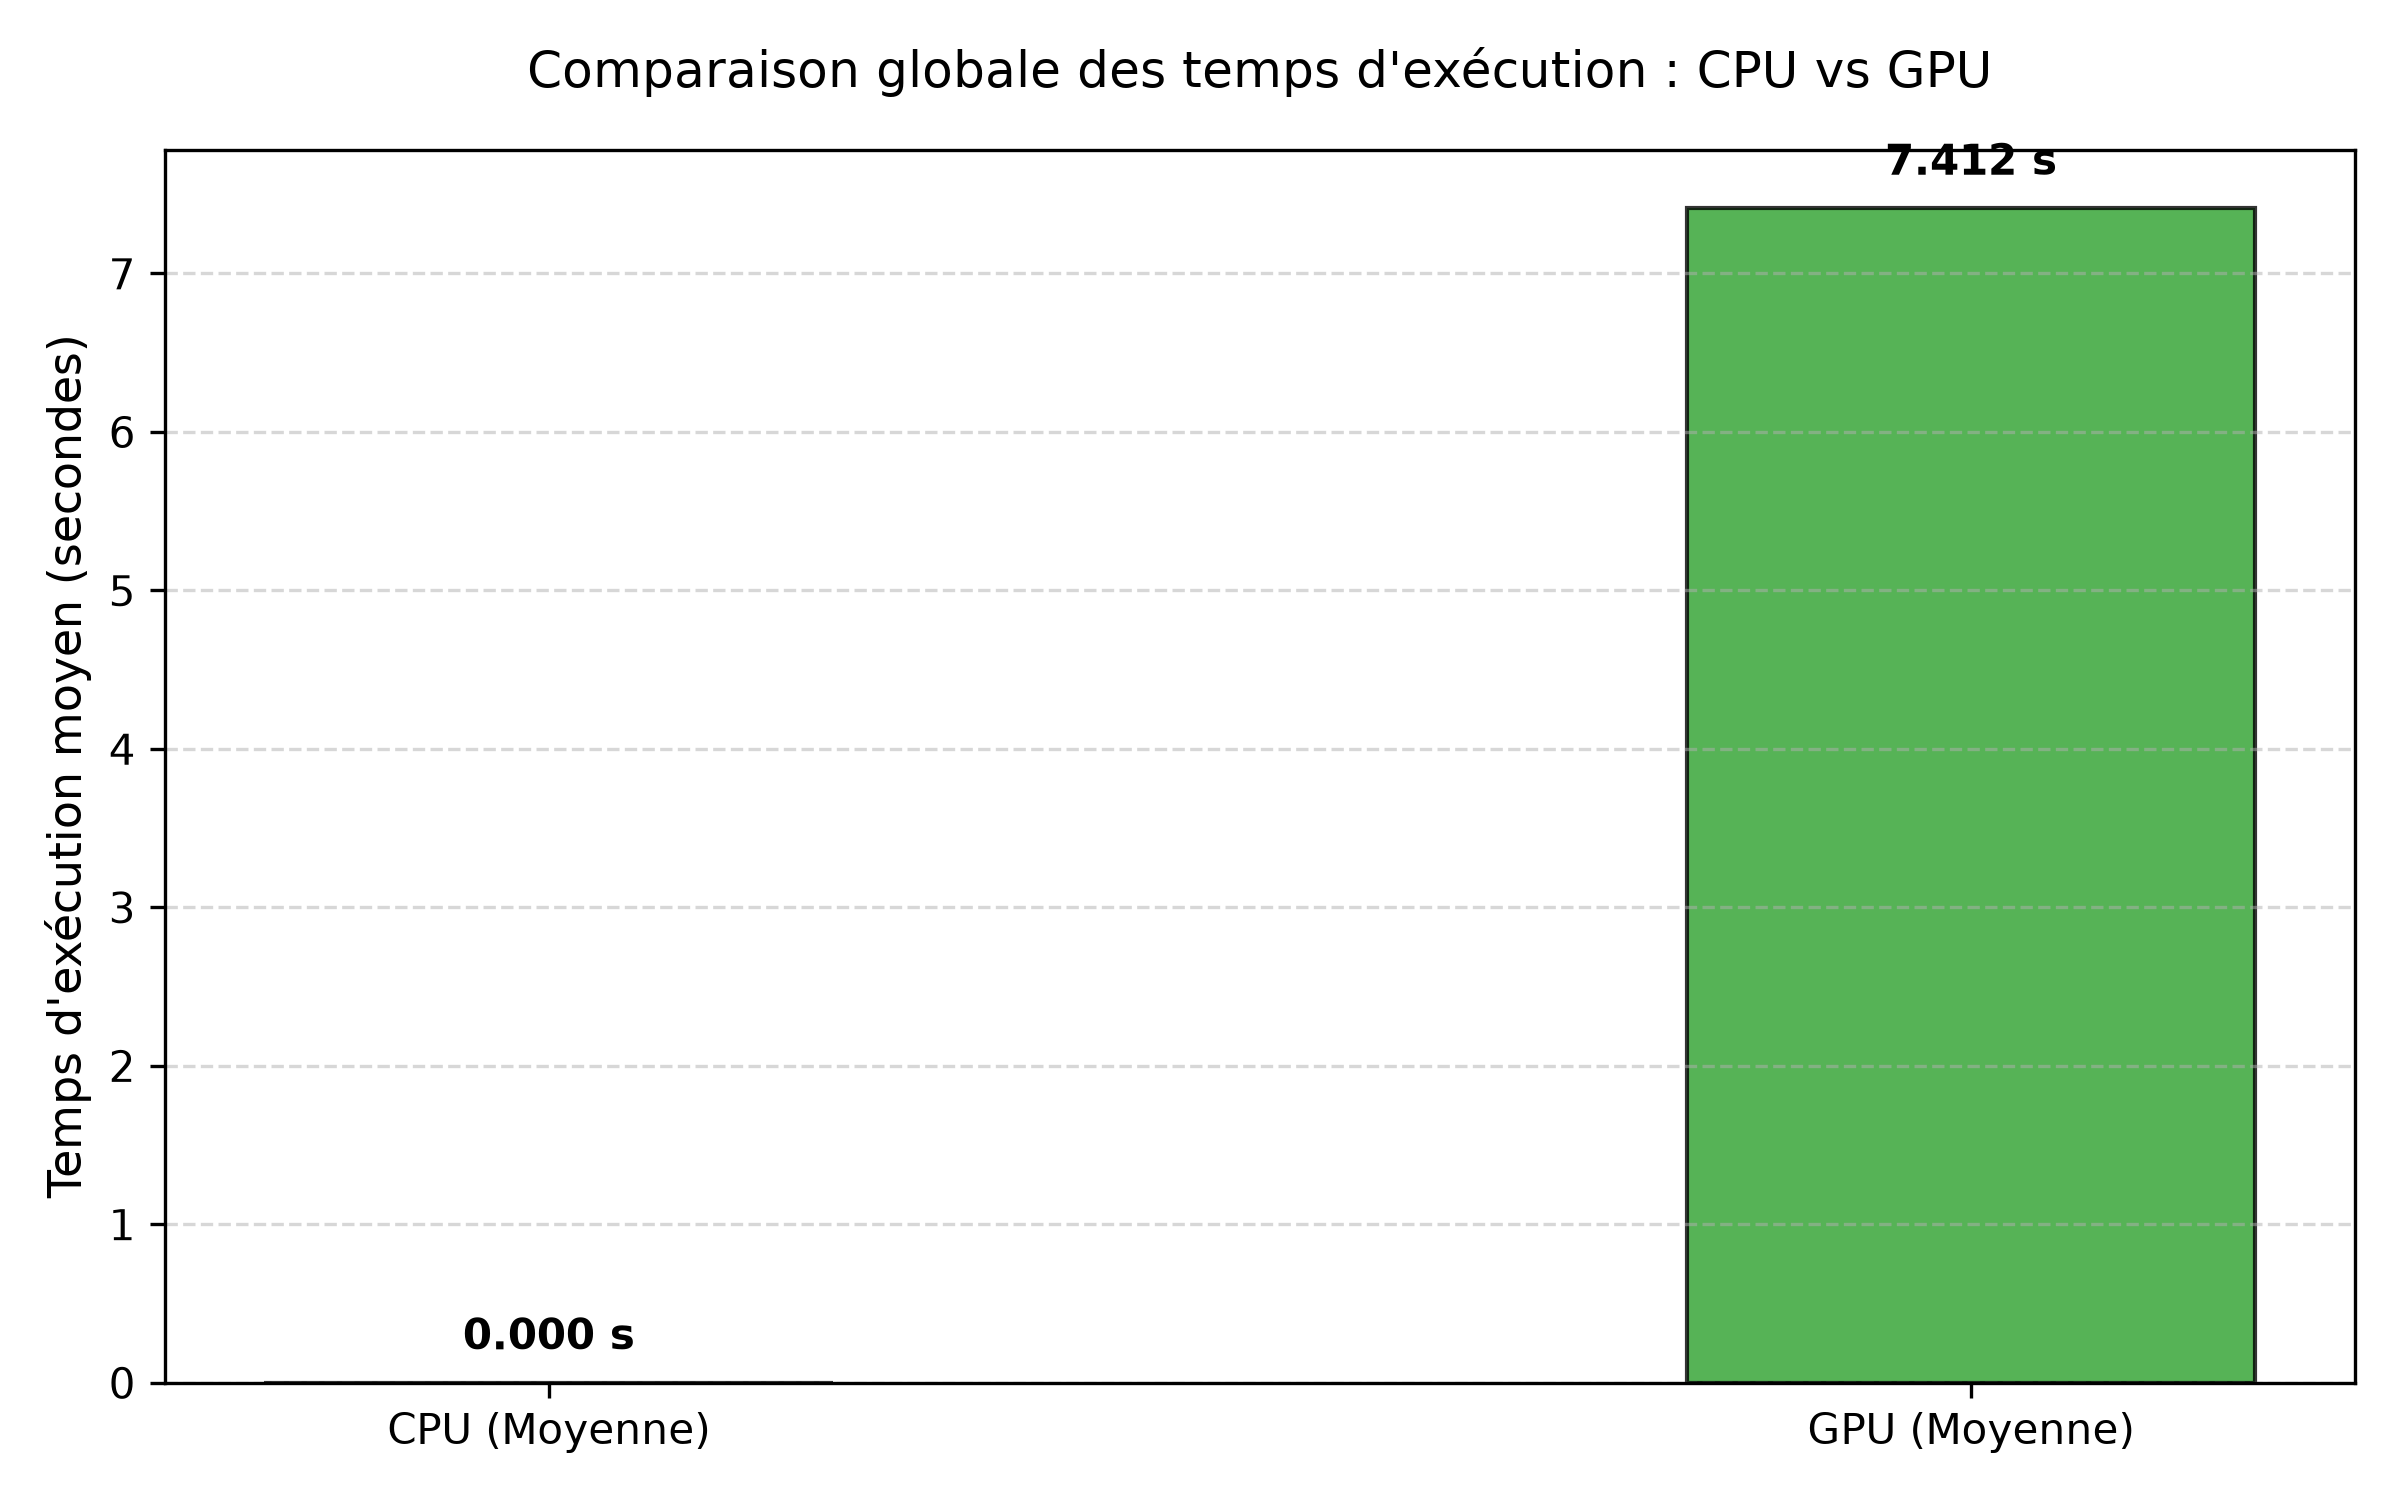
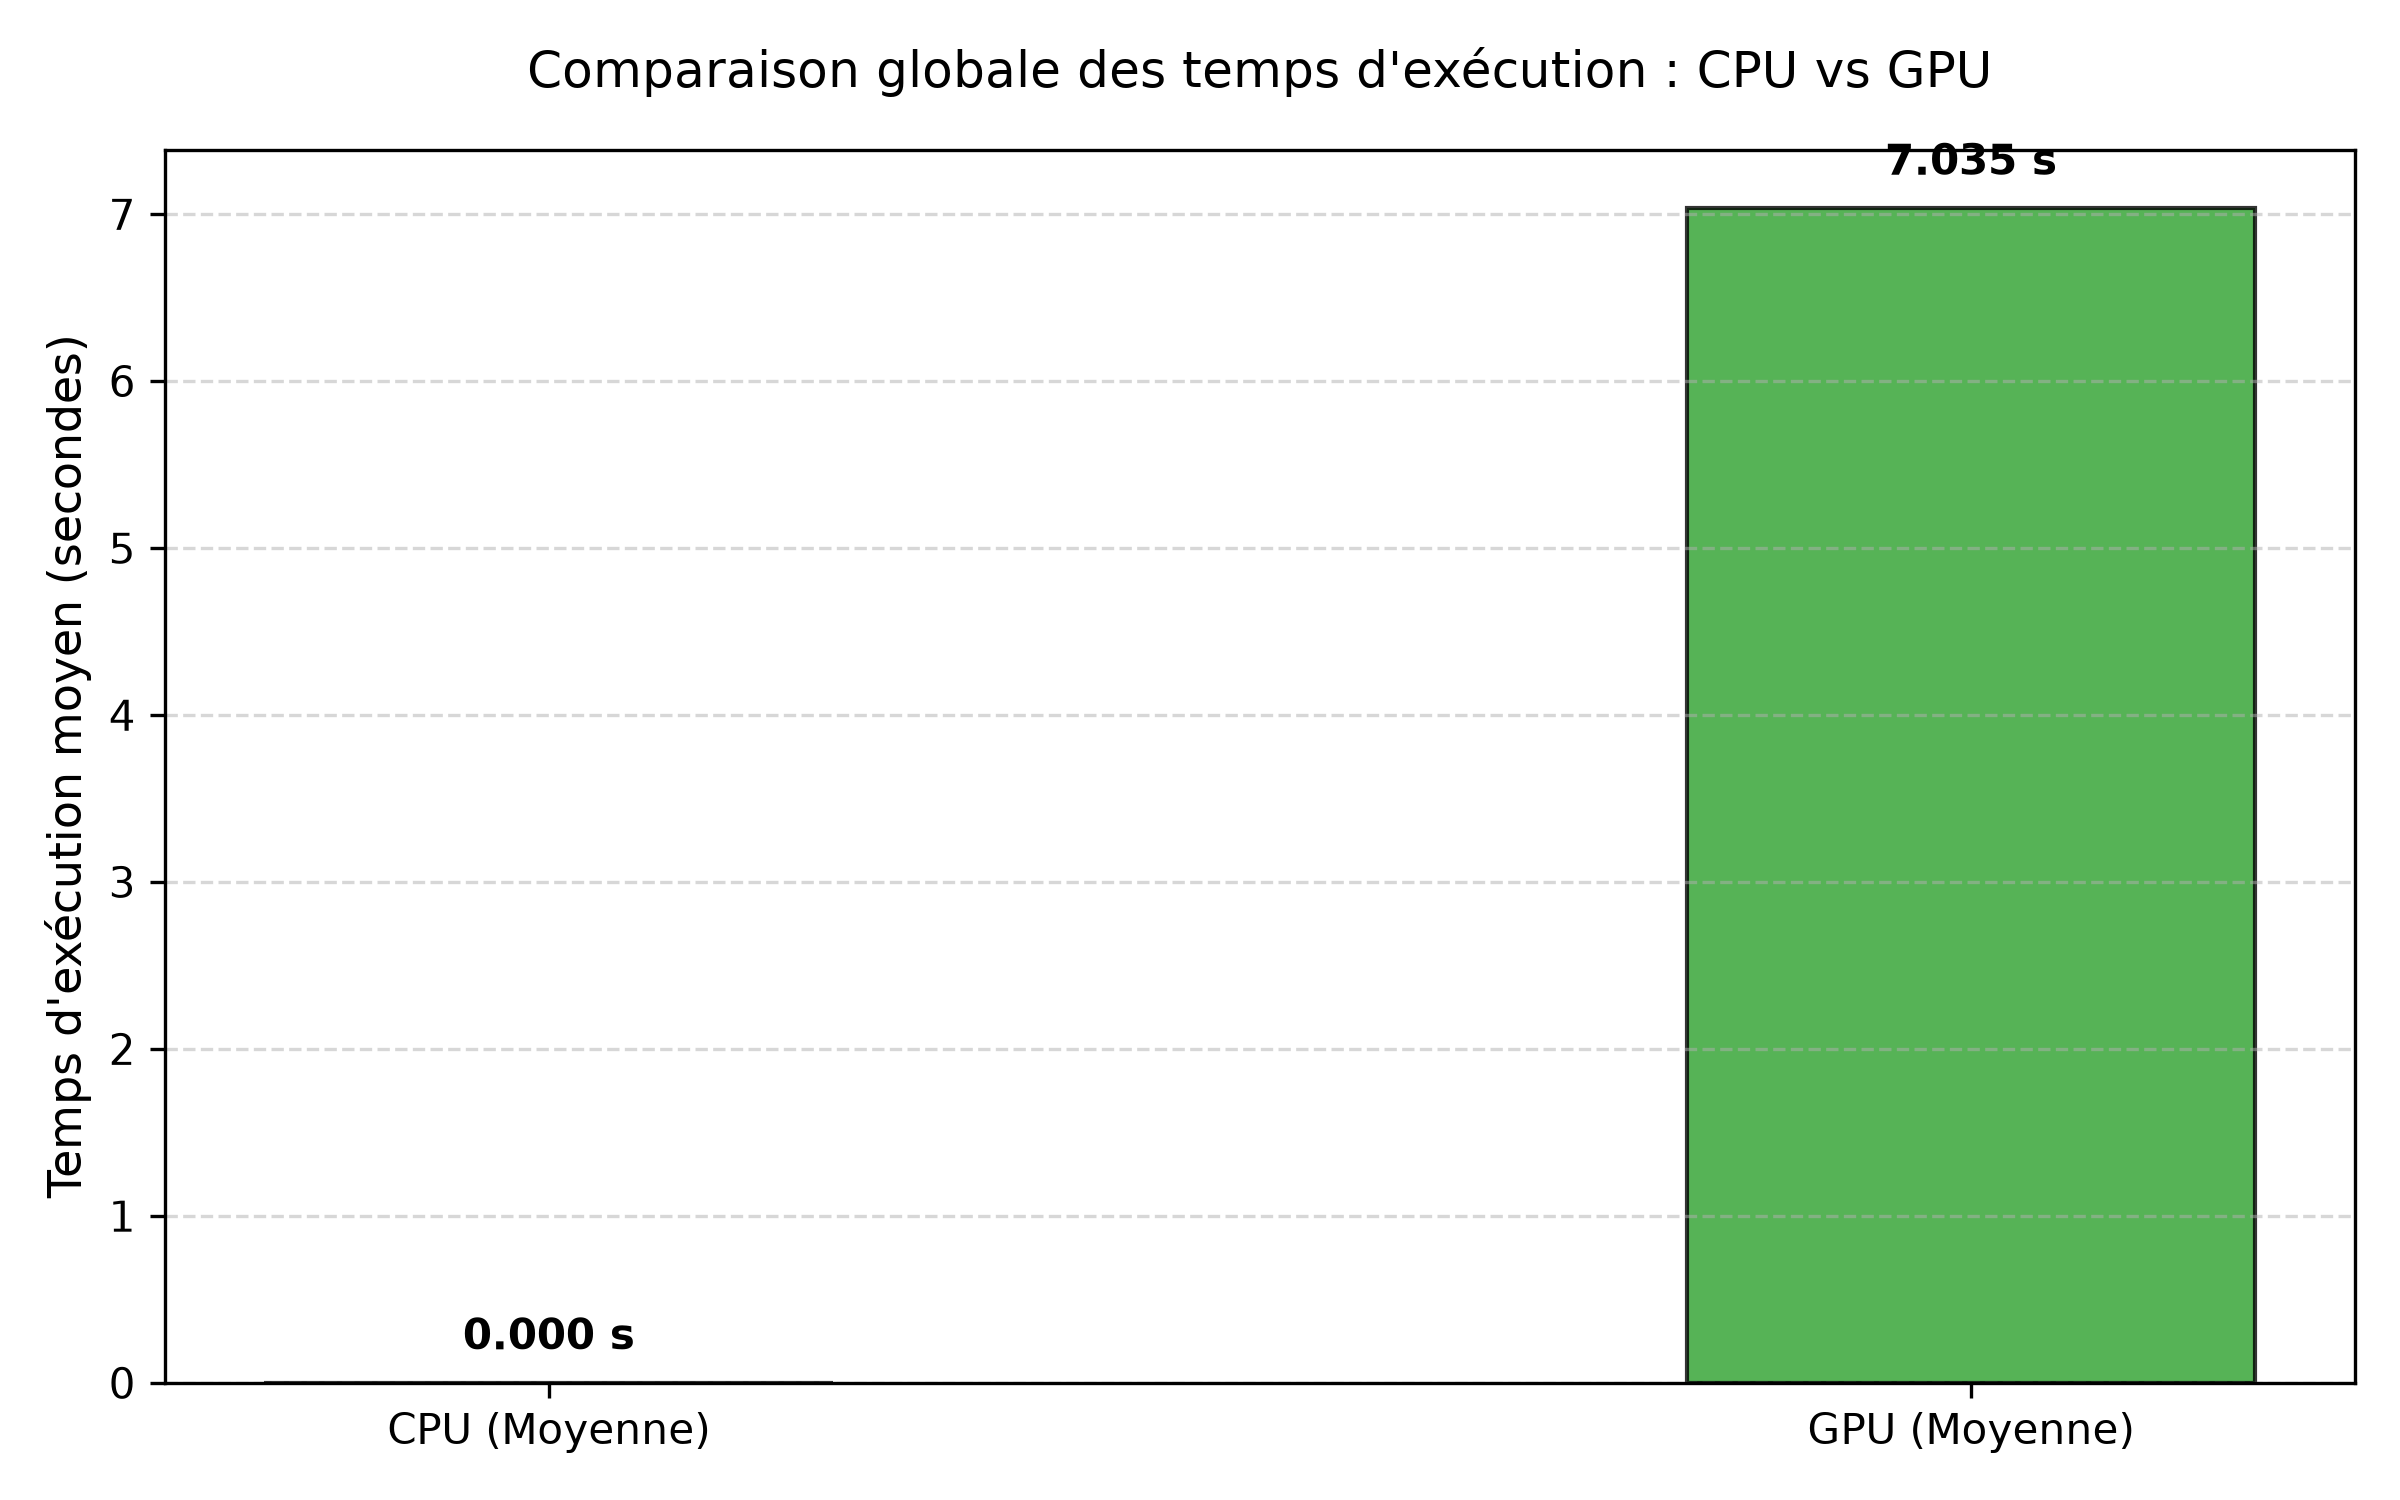
removed unused variables

diff --git a/src/umep_solweig/SOLWEIGpython/COMFA/CNR_Kinabs_meas_old.py b/src/umep_solweig/SOLWEIGpython/COMFA/CNR_Kinabs_meas_old.py
@@ -18,8 +18,8 @@ def CNR_Kinabs_meas(
     *args,
     **kwargs
 ):
-    varargin = CNR_Kinabs_meas.varargin
-    nargin = CNR_Kinabs_meas.nargin
+    CNR_Kinabs_meas.varargin
+    CNR_Kinabs_meas.nargin
 
     # VERTICAL CYLINDER MODEL USING THE PERPENDICULAR DIRECT IRRADIANCE AND
     # DIFFUSE BEAMS SEPARATELY
@@ -50,7 +50,7 @@ def CNR_Kinabs_meas(
     Kd_abs = multiply(multiply(multiply((1 - alpha), Kd), 0.5), Acyl)
     # CNR_Kinabs_meas.m:23
 
-    Kin_abs = Kb_abs + Kd_abs
+    Kb_abs + Kd_abs
 
 
 # CNR_Kinabs_meas.m:25

diff --git a/src/umep_solweig/SOLWEIGpython/COMFA/CNR_Kup.py b/src/umep_solweig/SOLWEIGpython/COMFA/CNR_Kup.py
@@ -6,8 +6,8 @@ from libsmop import *
 
 @function
 def CNR_Kup(alpha=None, Kup=None, L=None, D=None, *args, **kwargs):
-    varargin = CNR_Kup.varargin
-    nargin = CNR_Kup.nargin
+    CNR_Kup.varargin
+    CNR_Kup.nargin
 
     # Used to calculate the total reflected solar radiation (K) absorbed by the
     # a cylinder with inputs alpha (cylinder albedo), Kup (measured reflected solar
@@ -17,7 +17,7 @@ def CNR_Kup(alpha=None, Kup=None, L=None, D=None, *args, **kwargs):
     Acyl = CRT_Acyl(L, D)
     # CNR_Kup.m:8
 
-    Kup_abs = multiply(multiply(multiply((1 - alpha), Kup), 0.5), Acyl)
+    multiply(multiply(multiply((1 - alpha), Kup), 0.5), Acyl)
 
 
 # CNR_Kup.m:10

diff --git a/src/umep_solweig/SOLWEIGpython/COMFA/CRT_Acs.py b/src/umep_solweig/SOLWEIGpython/COMFA/CRT_Acs.py
@@ -6,8 +6,8 @@ from libsmop import *
 
 @function
 def CRT_Acs(L=None, D=None, *args, **kwargs):
-    varargin = CRT_Acs.varargin
-    nargin = CRT_Acs.nargin
+    CRT_Acs.varargin
+    CRT_Acs.nargin
 
     # vertical cross sectional area of the cylinder in m
 
@@ -18,7 +18,7 @@ def CRT_Acs(L=None, D=None, *args, **kwargs):
     #
     # Used in Kb_abs = (1-alpha).* (Kb .* sind(zen)).* Acs;
 
-    Acs = multiply(D, L)
+    multiply(D, L)
 
 
 # CRT_Acs.m:13

diff --git a/src/umep_solweig/SOLWEIGpython/COMFA/LinMeas_abs.py b/src/umep_solweig/SOLWEIGpython/COMFA/LinMeas_abs.py
@@ -6,8 +6,8 @@ from libsmop import *
 
 @function
 def LinMeas_abs(L=None, D=None, Lin=None, *args, **kwargs):
-    varargin = LinMeas_abs.varargin
-    nargin = LinMeas_abs.nargin
+    LinMeas_abs.varargin
+    LinMeas_abs.nargin
 
     # Used to Calculate the incoming longwave radiation absorbed by the cylinder with
     # inputs epsilon (emissivity of the cylinder, 0.95), Ta (air temp, degreesC)
@@ -17,7 +17,7 @@ def LinMeas_abs(L=None, D=None, Lin=None, *args, **kwargs):
     # LinMeas_abs.m:7
     Acyl = CRT_Acyl(L, D)
     # LinMeas_abs.m:9
-    LinMeas_abs = multiply(multiply(multiply(epsilon, Lin), 0.5), Acyl)
+    multiply(multiply(multiply(epsilon, Lin), 0.5), Acyl)
 
 
 # LinMeas_abs.m:11

diff --git a/src/umep_solweig/SOLWEIGpython/COMFA/LupMeas_abs.py b/src/umep_solweig/SOLWEIGpython/COMFA/LupMeas_abs.py
@@ -6,8 +6,8 @@ from libsmop import *
 
 @function
 def LupMeas_abs(L=None, D=None, Lup=None, *args, **kwargs):
-    varargin = LupMeas_abs.varargin
-    nargin = LupMeas_abs.nargin
+    LupMeas_abs.varargin
+    LupMeas_abs.nargin
 
     # Used to calculate the estimated outgoing terrestrial longwave absorbed by the
     # cylinder  for use in the Rabs (Estimation) Model with inputs Ta (air temperature),
@@ -19,7 +19,7 @@ def LupMeas_abs(L=None, D=None, Lup=None, *args, **kwargs):
     epsilon = 0.95
     # LupMeas_abs.m:9
 
-    LupMeas_abs = multiply(multiply(multiply(epsilon, Lup), 0.5), Acyl)
+    multiply(multiply(multiply(epsilon, Lup), 0.5), Acyl)
 
 
 # LupMeas_abs.m:11

diff --git a/src/umep_solweig/SOLWEIGpython/COMFA/atm_P.py b/src/umep_solweig/SOLWEIGpython/COMFA/atm_P.py
@@ -6,15 +6,15 @@ from libsmop import *
 
 @function
 def atm_P(A=None, *args, **kwargs):
-    varargin = atm_P.varargin
-    nargin = atm_P.nargin
+    atm_P.varargin
+    atm_P.nargin
 
     # Written by Jenni Vanos, Aug 2009 for use in COMFA CNR to find Rabs.
 
     Po = 101.3
     # atm_P.m:6
 
-    Pa = multiply(Po, exp(-A / 8200))
+    multiply(Po, exp(-A / 8200))
 
 
 # atm_P.m:9

diff --git a/src/umep_solweig/SOLWEIGpython/COMFA/CNRRabs_Total.py b/src/umep_solweig/SOLWEIGpython/COMFA/CNRRabs_Total.py
@@ -20,8 +20,8 @@ def CNRRabs_Total(
     *args,
     **kwargs
 ):
-    varargin = CNRRabs_Total.varargin
-    nargin = CNRRabs_Total.nargin
+    CNRRabs_Total.varargin
+    CNRRabs_Total.nargin
 
     # VERTICAL CYLINDER MODEL
     # Used to calculate the total radiation absorbed by a cylinder, such as the CRT, with inputs

diff --git a/src/umep_solweig/SOLWEIGpython/COMFA/COMFA_BUDGET.py b/src/umep_solweig/SOLWEIGpython/COMFA/COMFA_BUDGET.py
@@ -285,12 +285,12 @@ def COMFA_CONV(Mact, Ta, RH, vw, va, rco, weight, height, age, kid):
     if kid:
         # Body to surface area of kid
         BSA_k = weight**0.5378 * height**0.3964 * 0.0242
-        BMI_k = weight / (height / 100) ** 2
+        weight / (height / 100) ** 2
         # Body-to-surface area of adult (weight = 65 kg and height = 176 cm, according to Cheng & Brown, 2020)
         adult_weight = 65
         adult_height = 176
         BSA_a = adult_weight**0.5378 * adult_height**0.3964 * 0.0242
-        BMI_a = adult_weight / (adult_height / 100) ** 2
+        adult_weight / (adult_height / 100) ** 2
 
         CONV = (1212 * (Tsk - Ta) / (rc + ra)) * (
             (BSA_k / weight) / (BSA_a / adult_weight)

diff --git a/src/umep_solweig/SOLWEIGpython/COMFA/CRT_Acyl.py b/src/umep_solweig/SOLWEIGpython/COMFA/CRT_Acyl.py
@@ -6,8 +6,8 @@ from libsmop import *
 
 @function
 def CRT_Acyl(L=None, D=None, *args, **kwargs):
-    varargin = CRT_Acyl.varargin
-    nargin = CRT_Acyl.nargin
+    CRT_Acyl.varargin
+    CRT_Acyl.nargin
 
     # Function written August 2009 by Jenni Vanos for calculating the Area of
     # the CRT for use in the CNR Comfa model for finidng Rabs.

diff --git a/src/umep_solweig/SOLWEIGpython/COMFA/Ratio_Kb.py b/src/umep_solweig/SOLWEIGpython/COMFA/Ratio_Kb.py
@@ -8,8 +8,7 @@ from libsmop import *
 def Ratio_Kb(
     Kin=None, A=None, lat=None, d=None, t=None, Atr=None, *args, **kwargs
 ):
-    varargin = Ratio_Kb.varargin
-    nargin = Ratio_Kb.nargin
+
 
     # function is used to estimate incoming shortwave diffuse radiation under
     # clear sky conditions with inputs A(alititude, m), lat(latitude, degrees),
@@ -17,7 +16,6 @@ def Ratio_Kb(
 
     m = opt_m(A, lat, d, t)
     # Ratio_Kb.m:8
-    Kb = Kin / ((1 + (multiply(0.3, (1 - Atr**m)))) / (Atr**m))
 
 
 # Ratio_Kb.m:10

diff --git a/src/umep_solweig/SOLWEIGpython/Kside_veg_v2022a.py b/src/umep_solweig/SOLWEIGpython/Kside_veg_v2022a.py
@@ -67,10 +67,6 @@ def Kside_veg_v2022a(
     Kref_sun_e = np.zeros((rows, cols))
     Kref_sun_w = np.zeros((rows, cols))
 
-    KeastRef = np.zeros((rows, cols))
-    KwestRef = np.zeros((rows, cols))
-    KnorthRef = np.zeros((rows, cols))
-    KsouthRef = np.zeros((rows, cols))
     diffRadE = np.zeros((rows, cols))
     diffRadS = np.zeros((rows, cols))
     diffRadW = np.zeros((rows, cols))

diff --git a/src/umep_solweig/SOLWEIGpython/COMFA/radiationfunctionsCOMFA.py b/src/umep_solweig/SOLWEIGpython/COMFA/radiationfunctionsCOMFA.py
@@ -73,8 +73,6 @@ def COMFA_RAD_SPATIAL_TC(
     Same as CNRRabs_Total but using reindl et al for Kd and sun_position.py
     """
 
-    deg2rad = np.pi / 180.0
-
     # location = {'longitude': lon, 'latitude': lat, 'altitude': alt}
     YYYY, altitude, azimuth, zen, jday, leafon, dectime, altmax = (
         metload.Solweig_2015a_metdata_noload(metdata, location, utc)
@@ -139,7 +137,6 @@ def Rad_Total_solweig(
     Same as CNRRabs_Total but using reindl et al for Kd and sun_position.py
     """
 
-    deg2rad = np.pi / 180.0
     metdata = np.zeros((1, 24)) - 999.0  # TODO: Move out of function
     # doy = day_of_year(yyyy, month, day)
     metdata[0, 0] = yyyy